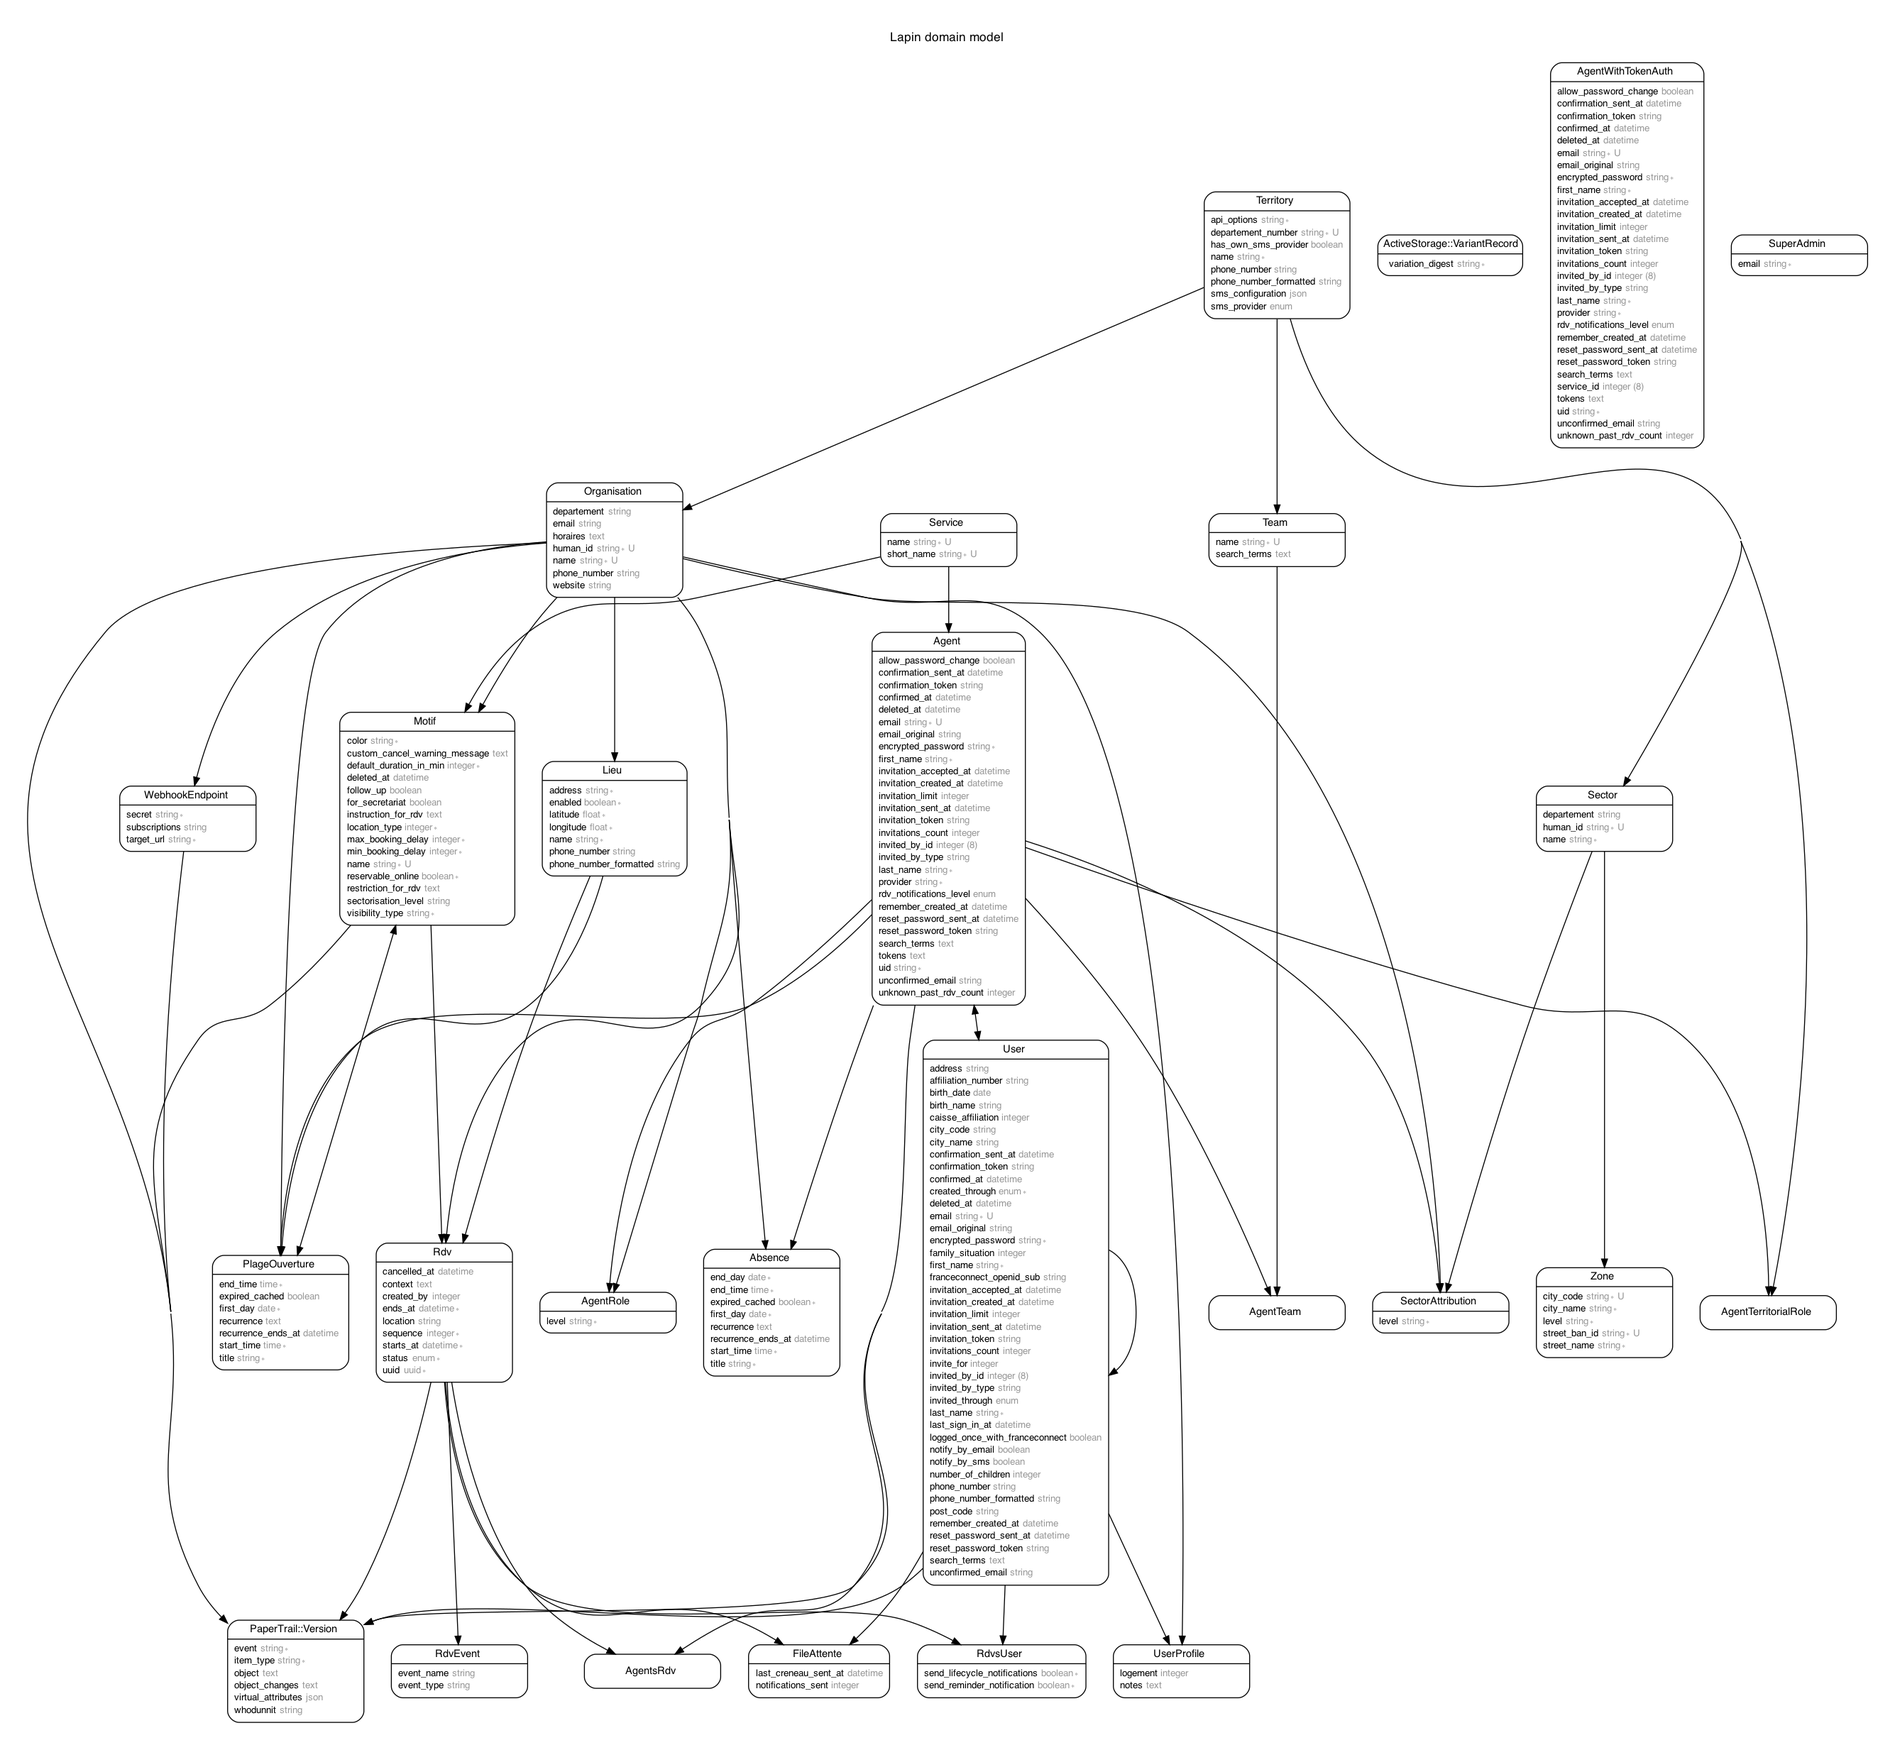
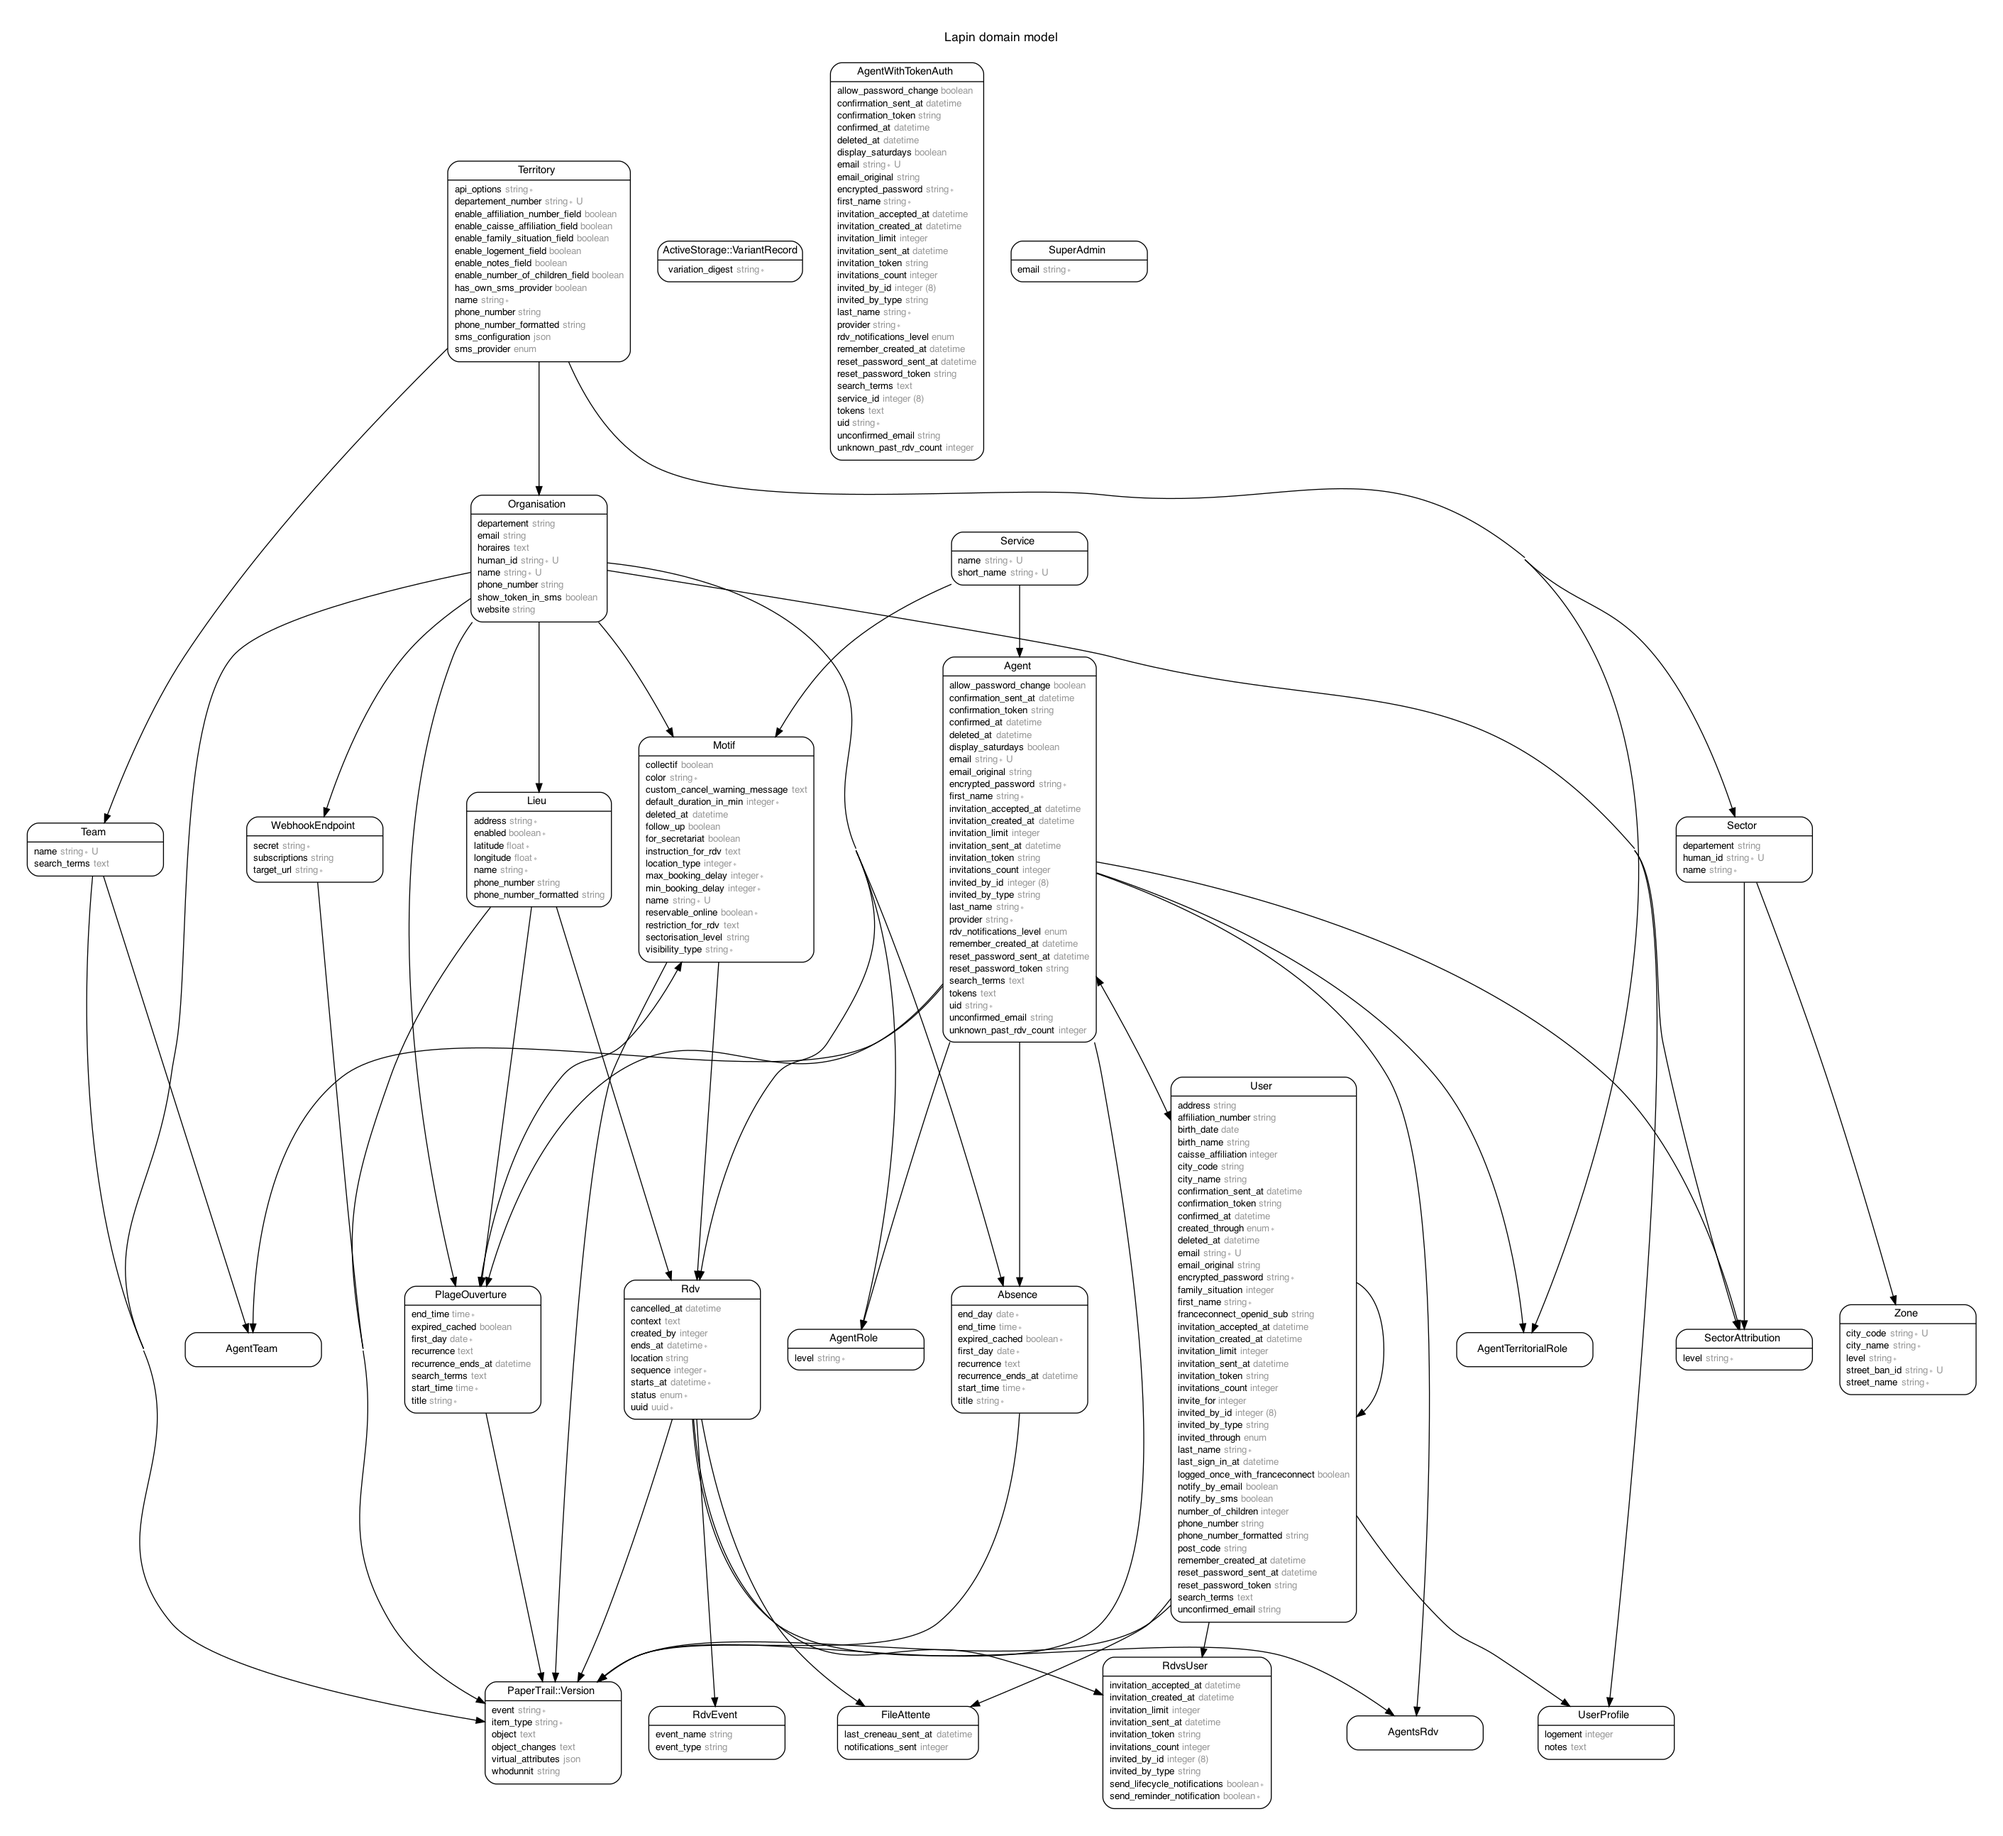
Add show_token_in_sms to organisations

diff --git a/db/schema.rb b/db/schema.rb
@@ -10,7 +10,7 @@
 #
 # It's strongly recommended that you check this file into your version control system.
 
-ActiveRecord::Schema.define(version: 2022_02_25_075042) do
+ActiveRecord::Schema.define(version: 2022_03_09_133231) do
 
   # These are extensions that must be enabled in order to support this database
   enable_extension "plpgsql"
@@ -295,6 +295,7 @@ ActiveRecord::Schema.define(version: 2022_02_25_075042) do
     t.string "website"
     t.string "email"
     t.bigint "territory_id", null: false
+    t.boolean "show_token_in_sms", default: false
     t.index ["human_id", "territory_id"], name: "index_organisations_on_human_id_and_territory_id", unique: true, where: "((human_id)::text <> ''::text)"
     t.index ["name", "territory_id"], name: "index_organisations_on_name_and_territory_id", unique: true
     t.index ["name"], name: "index_organisations_on_name"

diff --git a/db/migrate/20220309133231_add_show_token_in_sms_to_organisations.rb b/db/migrate/20220309133231_add_show_token_in_sms_to_organisations.rb
@@ -1,0 +1,7 @@
+# frozen_string_literal: true
+
+class AddShowTokenInSmsToOrganisations < ActiveRecord::Migration[6.1]
+  def change
+    add_column :organisations, :show_token_in_sms, :boolean, default: false
+  end
+end
